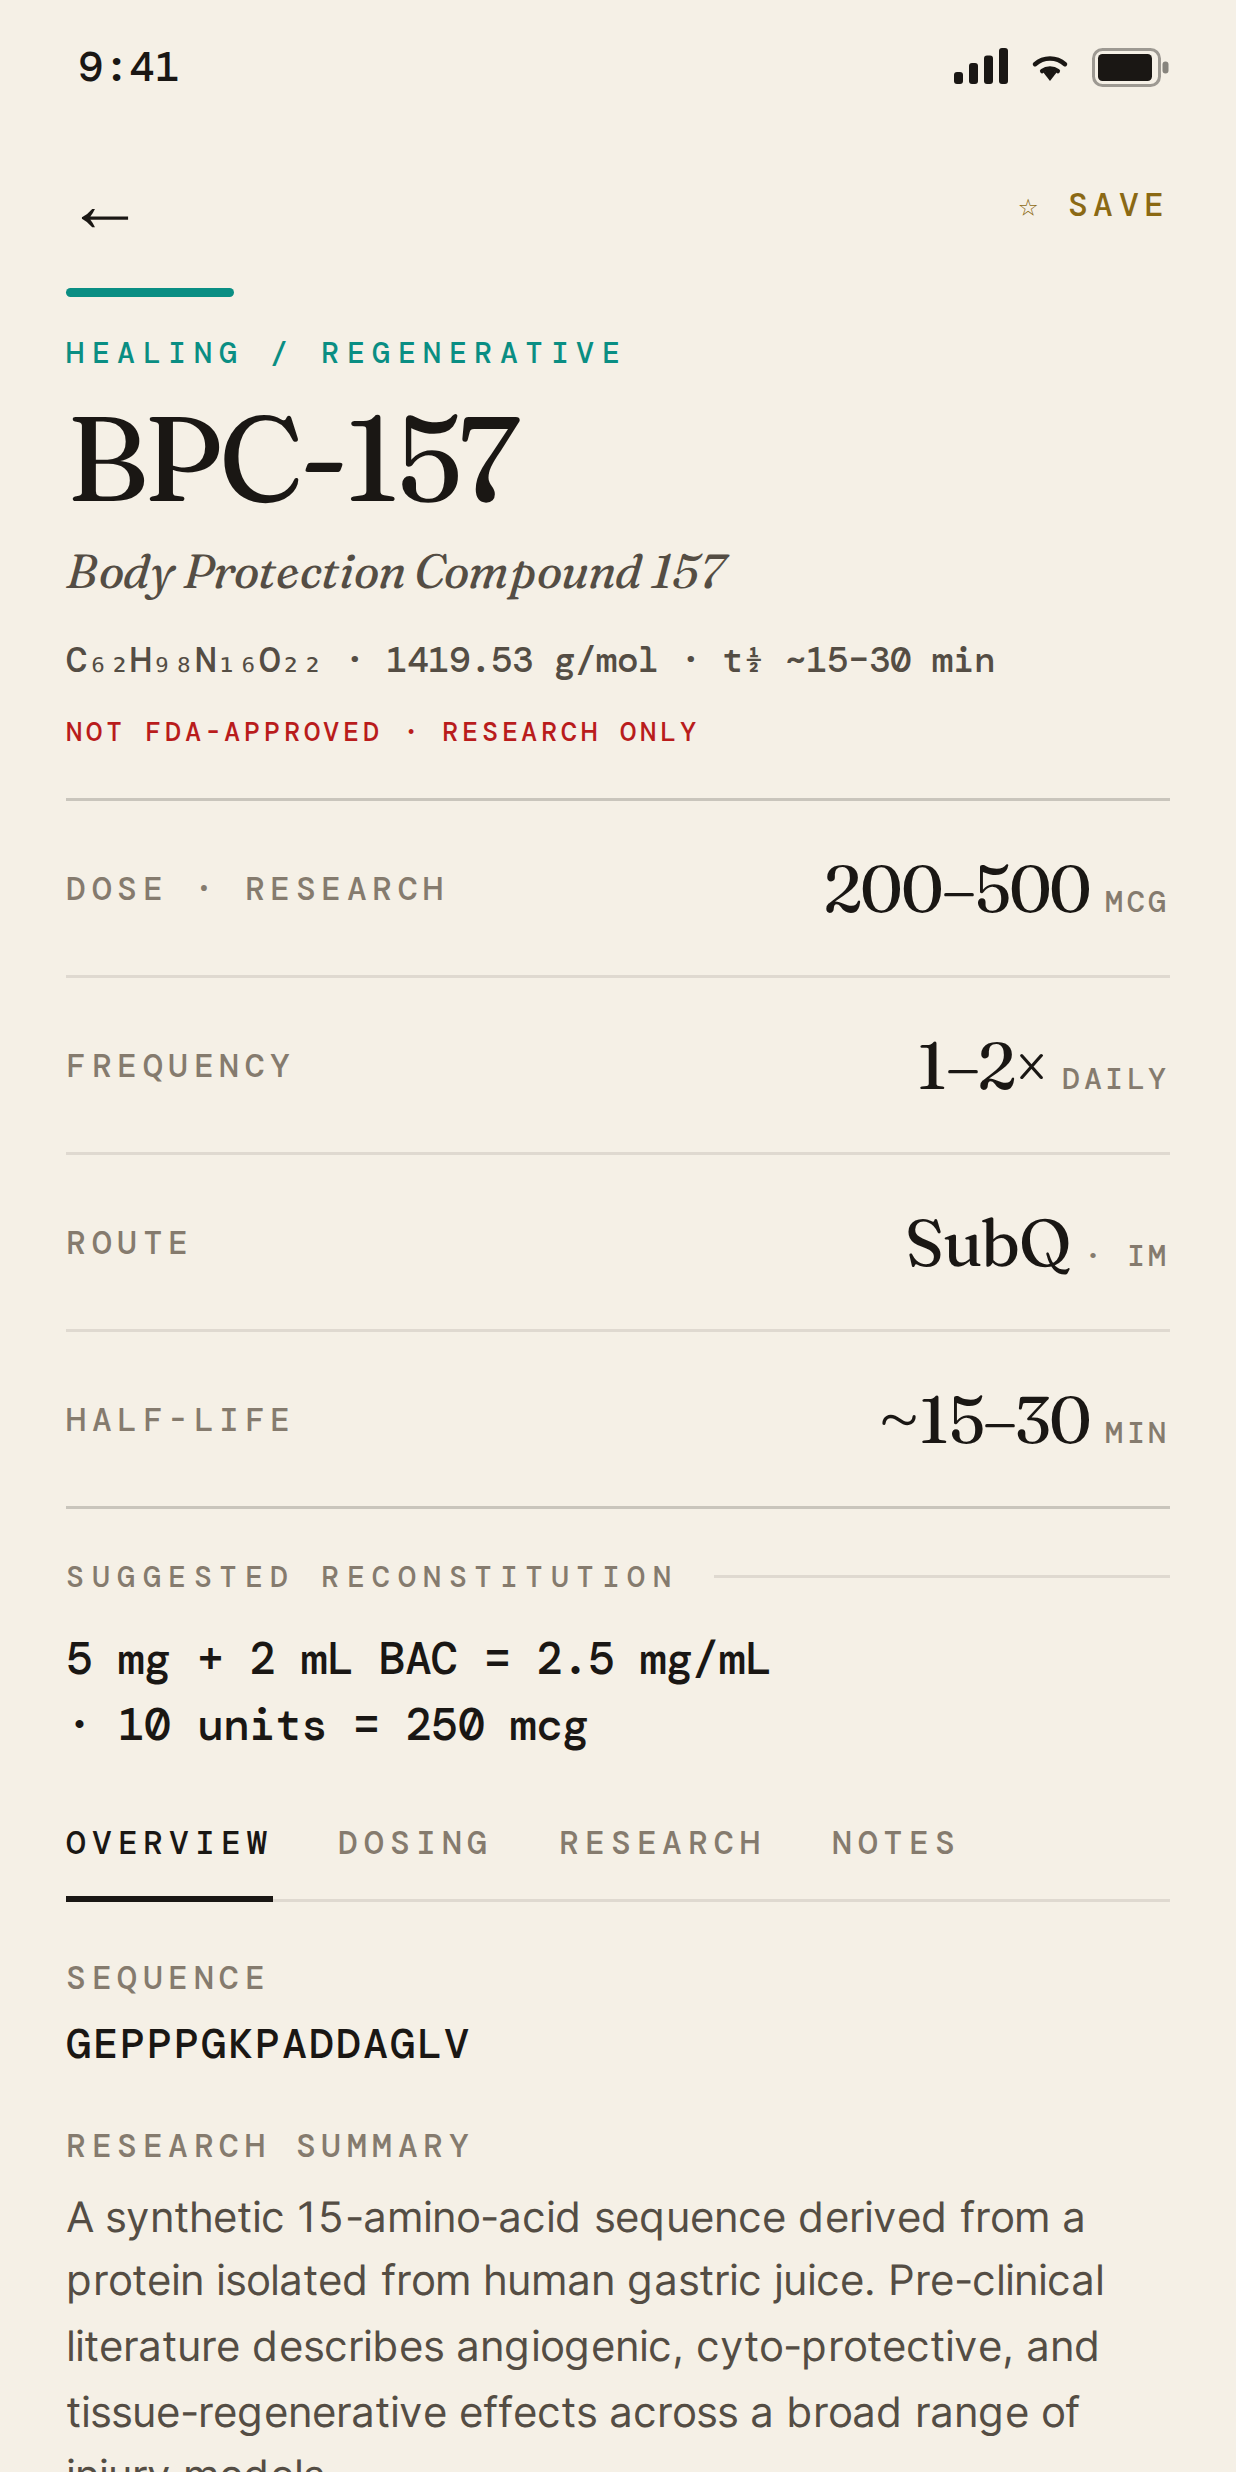
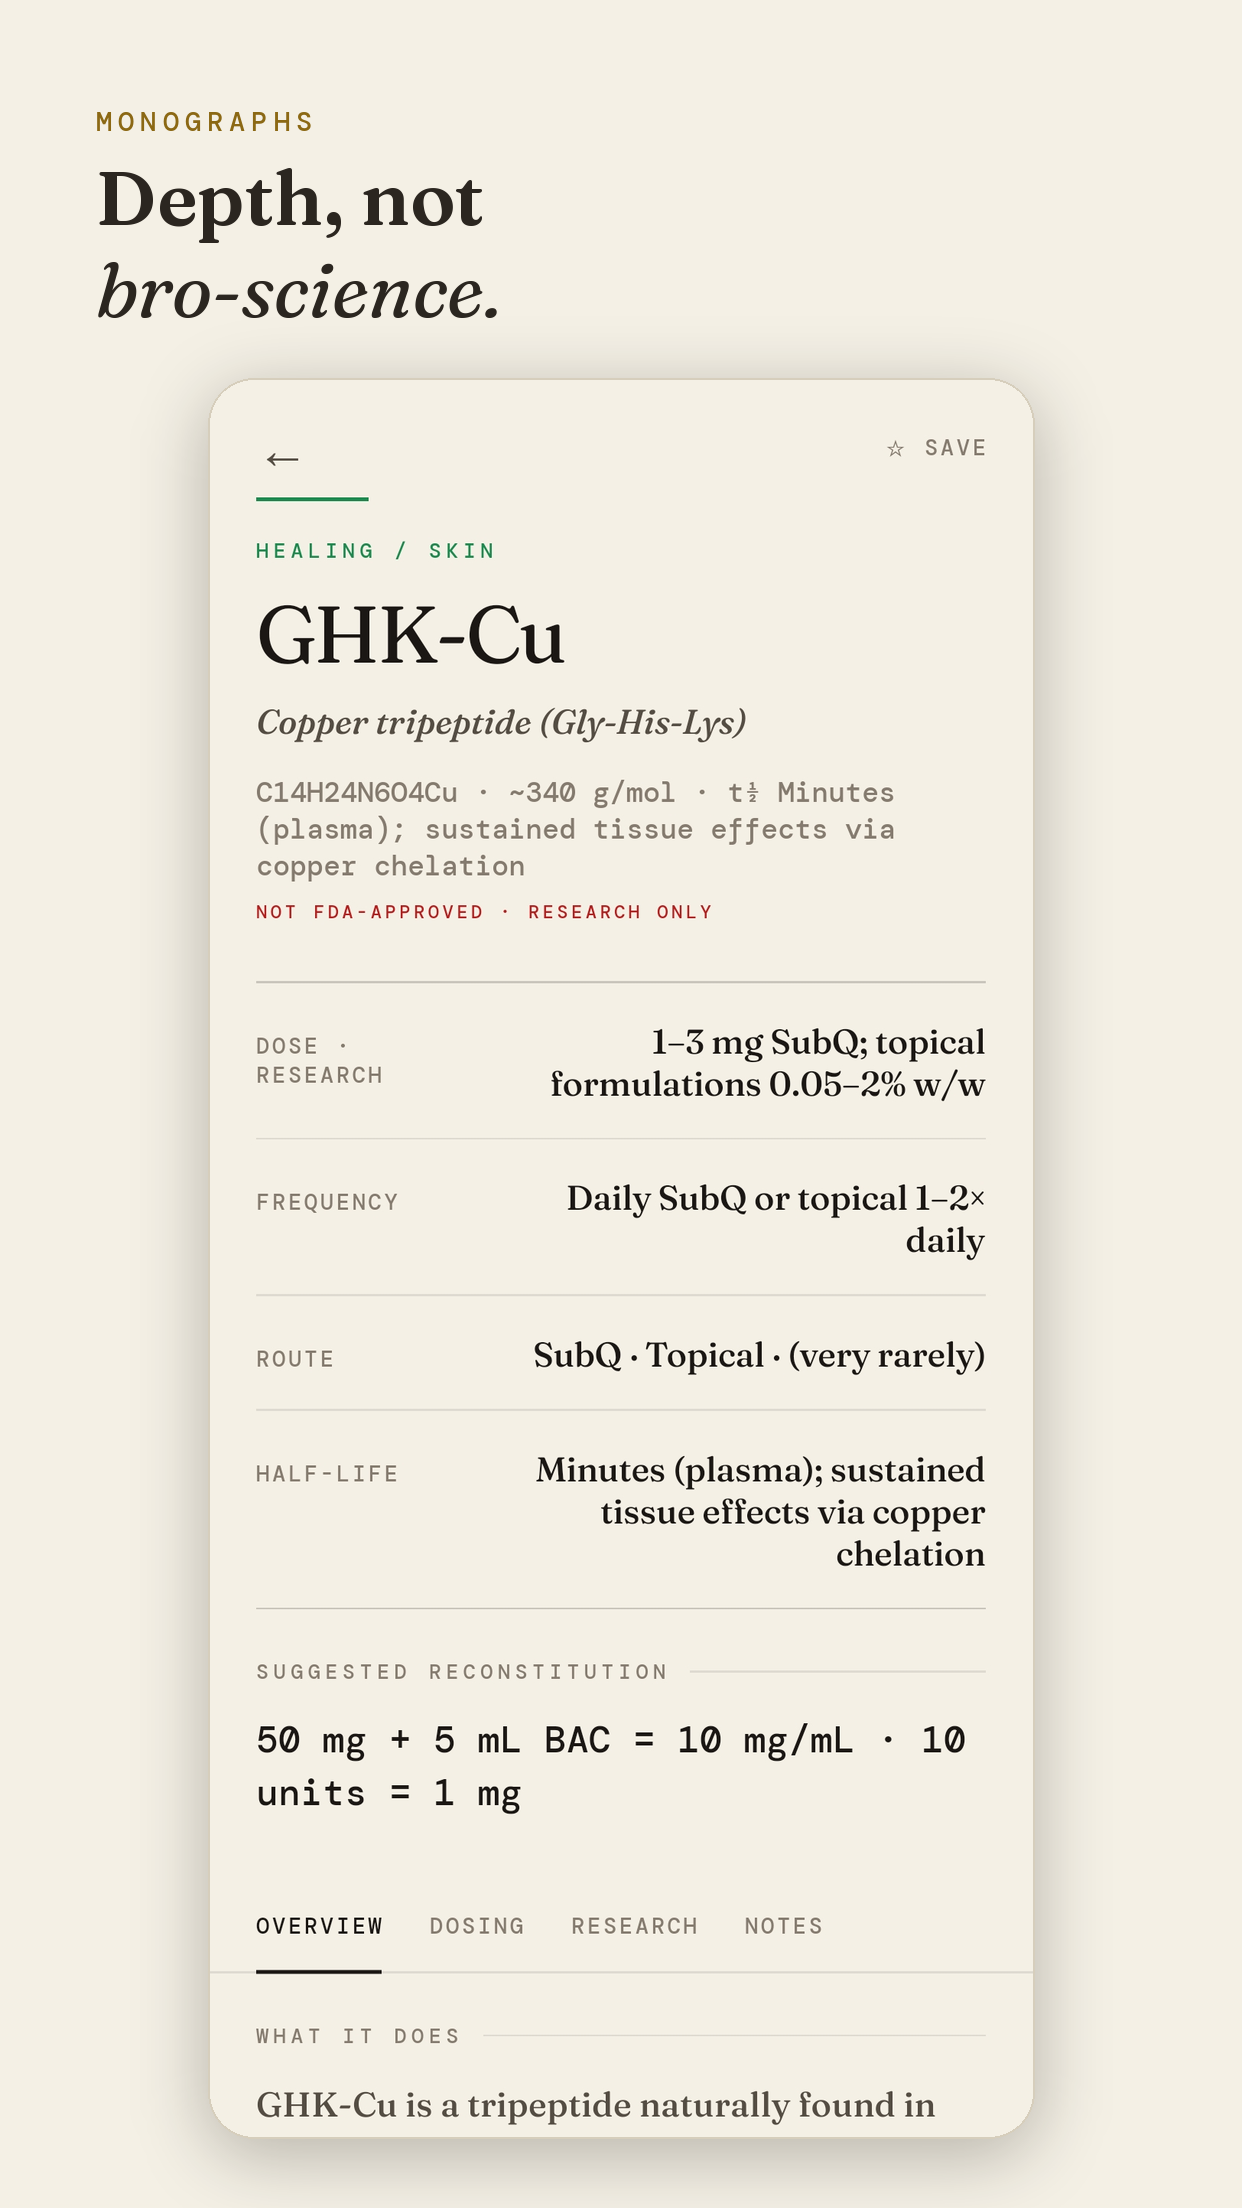
feat(store): regenerate Play screenshots from real app captures
Replaces the outdated HTML recreations with marketing screenshots
composed from actual device captures of the current app: OS status/nav
bars stripped, each screen placed on the editorial cream canvas with a
Fraunces headline. Six-screen narrative (today, library, peptide, cycle,
progress, weight) at 1242x2208 (9:16, opaque RGB) — promotion-eligible.
Drops the two stale recreations (reconstitute, stacks).

https://claude.ai/code/session_01Pt1j8NP4PP6K1PSxgAcY7P

diff --git a/screenshots/build_store.py b/screenshots/build_store.py
@@ -1,0 +1,110 @@
+#!/usr/bin/env python3
+"""Build Play Store marketing screenshots from real device captures.
+
+Strips the Android status bar (top) + system nav bar (bottom) from each
+1080x2520 capture, then composes the clean app screen onto a branded cream
+canvas (matching the app's editorial palette) with a Fraunces headline.
+Output: 1242x2208 (9:16), opaque RGB PNG.
+"""
+from PIL import Image, ImageDraw, ImageFont, ImageFilter
+import os
+
+U = "/root/.claude/uploads/f6f3fb25-7f3e-45b1-9a96-bc943248628e"
+OUT = "/home/user/Helix/store/screenshots"
+FONTS = "/home/user/Helix/node_modules/@expo-google-fonts"
+
+# palette (sampled from the app)
+CREAM = (244, 240, 229)
+INK = (43, 38, 32)
+BRASS = (139, 104, 20)
+SUB = (122, 112, 96)
+
+F_SEMI = f"{FONTS}/fraunces/600SemiBold/Fraunces_600SemiBold.ttf"
+F_ITAL = f"{FONTS}/fraunces/400Regular_Italic/Fraunces_400Regular_Italic.ttf"
+F_MONO = f"{FONTS}/dm-mono/500Medium/DMMono_500Medium.ttf"
+
+CANVAS_W, CANVAS_H = 1242, 2208
+CROP_TOP, CROP_BOT = 86, 2386  # rows to keep from the 1080x2520 source
+
+# screen -> (file, eyebrow, line1 (semibold), line2 (italic))
+SHOTS = [
+    ("f347b455-36782.jpg", "DAILY SCHEDULE", "Every dose,", "every morning."),
+    ("768cd4d0-36784.jpg", "THE CATALOG", "43 peptides.", "Sourced & honest."),
+    ("d5e23f20-36786.jpg", "MONOGRAPHS", "Depth, not", "bro-science."),
+    ("fede21f1-36792.jpg", "CYCLES", "Run protocols", "with precision."),
+    ("a0ff9ada-36796.jpg", "PROGRESS", "Watch your", "trends emerge."),
+    ("cd5977af-36799.jpg", "METRICS", "Numbers that", "mean something."),
+]
+NAMES = ["today", "library", "peptide", "cycle", "progress", "weight"]
+
+
+def tracked_text(draw, xy, text, font, fill, tracking):
+    x, y = xy
+    for ch in text:
+        draw.text((x, y), ch, font=font, fill=fill)
+        x += draw.textlength(ch, font=font) + tracking
+    return x
+
+
+def rounded_shadow(size, radius, blur, alpha):
+    w, h = size
+    pad = blur * 3
+    sh = Image.new("RGBA", (w + pad * 2, h + pad * 2), (0, 0, 0, 0))
+    d = ImageDraw.Draw(sh)
+    d.rounded_rectangle([pad, pad, pad + w, pad + h], radius=radius,
+                        fill=(30, 24, 16, alpha))
+    return sh.filter(ImageFilter.GaussianBlur(blur)), pad
+
+
+def build(src, eyebrow, l1, l2, out_path):
+    cap = Image.open(os.path.join(U, src)).convert("RGB")
+    cap = cap.crop((0, CROP_TOP, cap.width, CROP_BOT))  # strip OS chrome
+
+    canvas = Image.new("RGB", (CANVAS_W, CANVAS_H), CREAM)
+    draw = ImageDraw.Draw(canvas)
+
+    # --- headline block ---
+    eb_font = ImageFont.truetype(F_MONO, 27)
+    h1 = ImageFont.truetype(F_SEMI, 76)
+    h2 = ImageFont.truetype(F_ITAL, 76)
+    mx = 96
+    tracked_text(draw, (mx, 104), eyebrow, eb_font, BRASS, 6)
+    draw.text((mx, 150), l1, font=h1, fill=INK)
+    draw.text((mx, 150 + 92), l2, font=h2, fill=INK)
+    head_bottom = 150 + 92 + 96
+
+    # --- phone screen ---
+    avail_top = head_bottom + 40
+    avail_h = CANVAS_H - avail_top - 70
+    scale = avail_h / cap.height
+    pw, ph = int(cap.width * scale), int(cap.height * scale)
+    if pw > CANVAS_W - 150:  # don't overflow width
+        scale = (CANVAS_W - 150) / cap.width
+        pw, ph = int(cap.width * scale), int(cap.height * scale)
+    phone = cap.resize((pw, ph), Image.LANCZOS)
+
+    radius = 46
+    mask = Image.new("L", (pw, ph), 0)
+    ImageDraw.Draw(mask).rounded_rectangle([0, 0, pw, ph], radius=radius, fill=255)
+
+    px = (CANVAS_W - pw) // 2
+    py = avail_top + (avail_h - ph) // 2
+
+    shadow, pad = rounded_shadow((pw, ph), radius, 34, 70)
+    canvas.paste((30, 24, 16), (0, 0), Image.new("L", (1, 1)))  # noop guard
+    canvas.paste(shadow, (px - pad, py - pad + 16), shadow)
+    canvas.paste(phone, (px, py), mask)
+    # hairline bezel
+    ImageDraw.Draw(canvas).rounded_rectangle(
+        [px, py, px + pw, py + ph], radius=radius, outline=(214, 206, 188), width=2)
+
+    canvas.save(out_path, "PNG")
+    return canvas.size
+
+
+os.makedirs(OUT, exist_ok=True)
+for (src, eb, l1, l2), name in zip(SHOTS, NAMES):
+    p = os.path.join(OUT, f"{name}.png")
+    sz = build(src, eb, l1, l2, p)
+    print(f"{name}.png  {sz[0]}x{sz[1]}  ratio={sz[0]/sz[1]:.4f}")
+print("done")